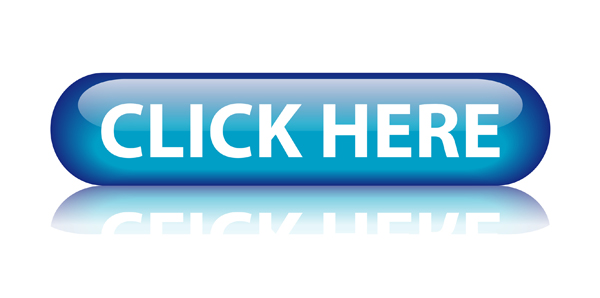
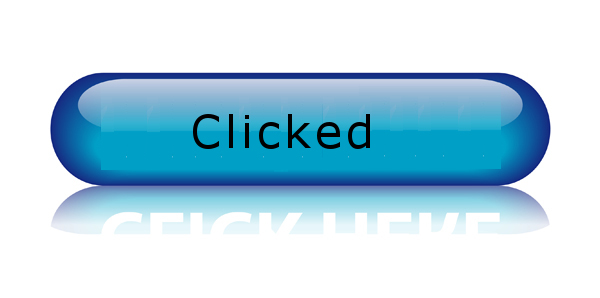
Small Tweaks

Changed region(s): [[0.15, 0.3322, 0.84, 0.5738], [0.15, 0.5436, 0.18, 0.5738]]

diff --git a/main.py b/main.py
@@ -23,14 +23,14 @@ class Account(ndb.Model):
 
 class MainHandler(webapp2.RequestHandler):
     def get(self):
-    	accnt_hash = self.request.get('accnt_hash')
-    	account = Account.get_by_id(accnt_hash)
+      accnt_hash = self.request.get('accnt_hash')
+      account = Account.get_by_id(accnt_hash)
     	
-    	if account:
+      if account and account.clicked == 1:
           self.response.headers['Content-Type'] = 'image/jpeg'
           fh = open('clicked-here-button.jpg')
           self.response.out.write(fh.read())
-        else:
+      else:
           self.response.headers['Content-Type'] = 'image/jpeg'
           fh = open('click-here-button.jpg')
           self.response.out.write(fh.read())
@@ -38,10 +38,17 @@ class MainHandler(webapp2.RequestHandler):
 class LogResults(webapp2.RequestHandler):
     def get(self):
         accnt_hash = self.request.get('accnt_hash')
-        account = Account(id = accnt_hash, clicked = 1)
+        account = Account.get_by_id(accnt_hash)
+        
+        if account:
+          click_state = -account.clicked + 1
+          account = Account(id = accnt_hash, clicked = click_state)
+        else:
+          account = Account(id = accnt_hash, clicked = 1)
+
         account.put()
         self.redirect("http://www.google.com/adwords/")
-  	
+
 
 app = webapp2.WSGIApplication([
     ('/', MainHandler),
